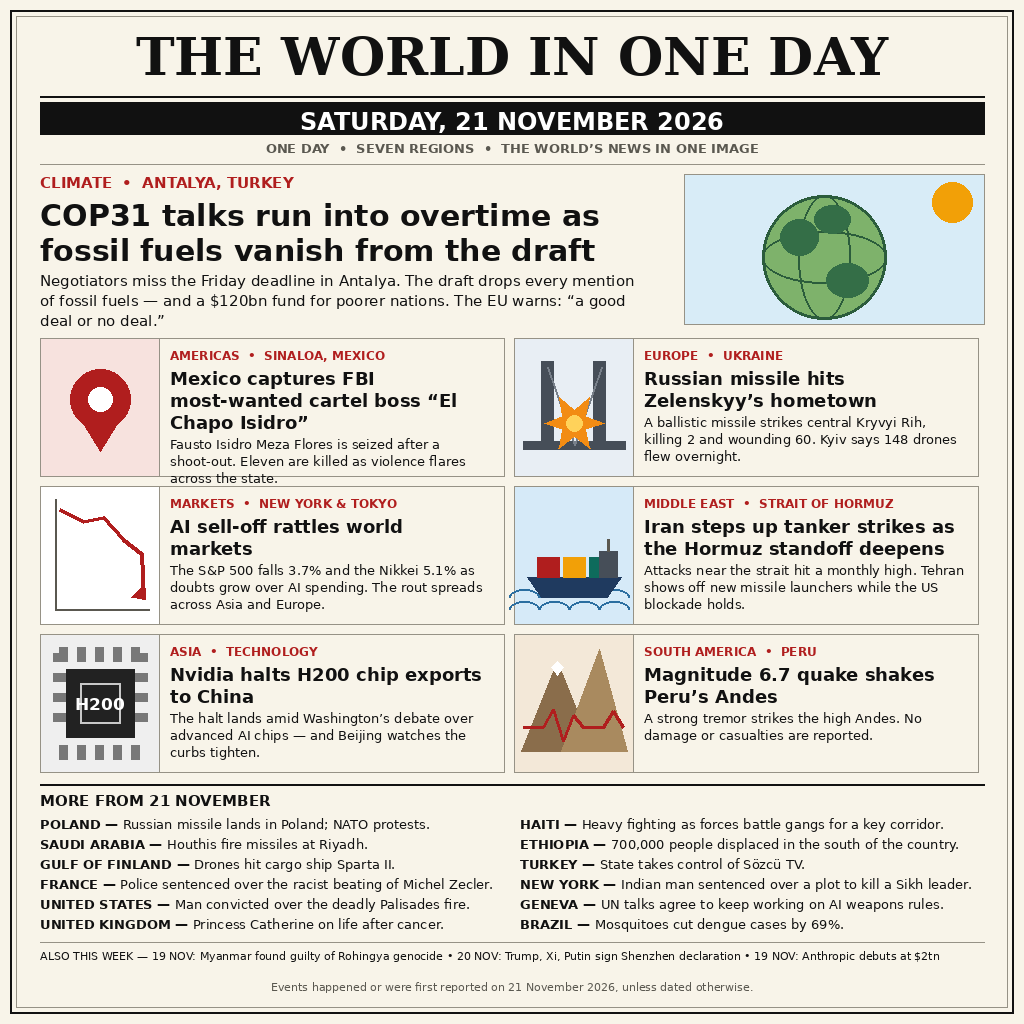
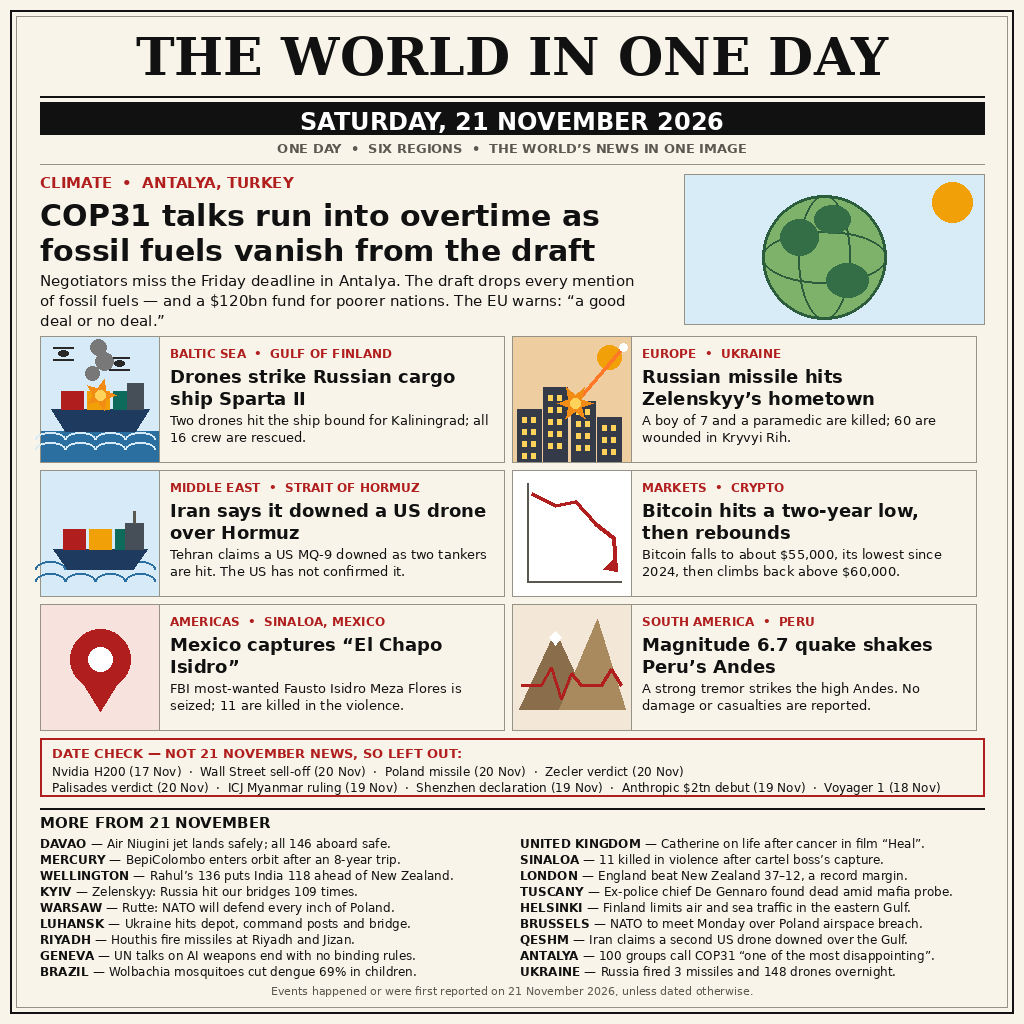
Poster v4: fix all 9 date errors, add DATE CHECK, 25 main items
- Lead Nvidia H200 (17 Nov) replaced by Sparta II (21 Nov)
- Poland missile and Shenzhen declaration moved to DATE CHECK
  with correct dates (20 Nov / 19 Nov); 6 more misdated briefs
  (Haiti, Ethiopia, Sozcu TV, Sikh-plot, Zecler, Palisades)
  removed from 21 Nov section
- New DATE CHECK box: 9 non-21-Nov stories with true dates
- 18 briefs (was 12); Iran attributed; 'US blockade holds' removed;
  markets card replaced with Bitcoin (clean 21 Nov story)
- Masthead sub-line honestly 'SIX REGIONS' (no verified 21 Nov
  Africa story found)

Changed region(s): [[0.0312, 0.3125, 0.9688, 0.9688], [0.25, 0.125, 0.75, 0.1562]]

diff --git a/generate_poster.py b/generate_poster.py
@@ -4,7 +4,12 @@ Run:  python3 generate_poster.py            -> writes entry.png (1024x1024)
 The image is drawn entirely in code: flat vector-style art + real text, so
 every letter stays sharp. No network, no randomness, no timestamps in the
 output: the same script always writes the same bytes.
+
+v4 (2026-11-22, fix session): replaces the v3 poster. See build-report.md.
+NOTE: v4 generator written but NOT YET RUN/TESTED in this session — entry.png
+in this repo is still v3 until the generator is run and main.py is tested 2x.
 """
+import math
 import os
 from PIL import Image, ImageDraw, ImageFont
 
@@ -62,8 +67,7 @@ def centered(draw, cx, y, text, fnt, fill=INK):
 
 
 # ---------------------------------------------------------------------------
-# Flat illustrations (all drawn with PIL primitives, no photos, no text
-# except the short "H200" label on the chip).
+# Flat illustrations (all drawn with PIL primitives, no photos, no text).
 # ---------------------------------------------------------------------------
 
 def art_globe(d, x, y, w, h):
@@ -91,24 +95,65 @@ def art_pin(d, x, y, w, h):
     d.ellipse([cx - 12, cy - 12, cx + 12, cy + 12], fill=LIGHT)
 
 
-def art_bridge(d, x, y, w, h):
-    d.rectangle([x, y, x + w, y + h], fill=(232, 238, 244))
-    # deck and towers
-    d.rectangle([x + 8, y + h - 34, x + w - 8, y + h - 26], fill=(70, 78, 88))
-    for tx in (x + 26, x + w - 40):
-        d.rectangle([tx, y + 22, tx + 12, y + h - 26], fill=(70, 78, 88))
-    d.line([x + 32, y + 28, x + w // 2, y + h - 30], fill=(120, 128, 138), width=2)
-    d.line([x + w - 32, y + 28, x + w // 2, y + h - 30], fill=(120, 128, 138), width=2)
-    # explosion burst on the deck
-    cx, cy = x + w // 2, y + h - 52
+def art_ship(d, x, y, w, h):
+    """Sparta II: cargo ship on fire in the Gulf of Finland, drones above."""
+    d.rectangle([x, y, x + w, y + h], fill=(214, 234, 248))
+    # two drones in the sky
+    for dx, dy in ((x + 22, y + 16), (x + 78, y + 26)):
+        d.ellipse([dx - 5, dy - 3, dx + 5, dy + 3], fill=(40, 40, 40))
+        d.line([dx - 10, dy - 6, dx + 10, dy - 6], fill=(40, 40, 40), width=2)
+        d.line([dx - 10, dy + 6, dx + 10, dy + 6], fill=(40, 40, 40), width=2)
+    # sea
+    d.rectangle([x, y + h - 30, x + w, y + h], fill=(43, 110, 160))
+    for wy in (y + h - 22, y + h - 12):
+        for k in range(4):
+            d.arc([x + k * 30 - 6, wy - 7, x + k * 30 + 24, wy + 7],
+                  180, 360, fill=(214, 234, 248), width=2)
+    # hull
+    d.polygon([(x + 10, y + h - 52), (x + w - 10, y + h - 52),
+               (x + w - 24, y + h - 30), (x + 24, y + h - 30)], fill=(31, 58, 95))
+    # containers
+    for i, col in enumerate([(176, 30, 30), (242, 160, 7), (14, 107, 92)]):
+        d.rectangle([x + 20 + i * 26, y + h - 70, x + 42 + i * 26, y + h - 52],
+                    fill=col)
+    # bridge tower
+    d.rectangle([x + w - 32, y + h - 78, x + w - 16, y + h - 52], fill=(70, 78, 88))
+    # fire on deck + smoke
+    cx, cy = x + w // 2, y + h - 66
     pts = []
-    import math
-    for i in range(12):
-        ang = math.pi * i / 6
-        rr = 30 if i % 2 == 0 else 13
+    for i in range(10):
+        ang = math.pi * i / 5
+        rr = 16 if i % 2 == 0 else 7
         pts.append((cx + rr * math.cos(ang), cy + rr * math.sin(ang)))
     d.polygon(pts, fill=(242, 140, 20))
-    d.ellipse([cx - 8, cy - 8, cx + 8, cy + 8], fill=(255, 210, 90))
+    d.ellipse([cx - 5, cy - 5, cx + 5, cy + 5], fill=(255, 210, 90))
+    for sx, sy, sr in ((cx - 8, cy - 22, 7), (cx + 4, cy - 34, 9), (cx - 2, cy - 48, 8)):
+        d.ellipse([sx - sr, sy - sr, sx + sr, sy + sr], fill=(120, 120, 120))
+
+
+def art_city(d, x, y, w, h):
+    """Kryvyi Rih: dusk skyline, missile trail, impact burst on a rooftop."""
+    d.rectangle([x, y, x + w, y + h], fill=(238, 205, 160))
+    d.ellipse([x + w - 34, y + 8, x + w - 10, y + 32], fill=(242, 160, 7))
+    # missile trail from top right to the impact point
+    ix, iy = x + 62, y + h - 58
+    d.line([x + w - 8, y + 10, ix, iy], fill=(255, 120, 40), width=3)
+    d.ellipse([x + w - 12, y + 6, x + w - 4, y + 14], fill=(255, 255, 255))
+    # skyline with lit windows
+    base = y + h
+    for bx, bh in ((x + 4, 52), (x + 30, 74), (x + 58, 60), (x + 84, 44)):
+        d.rectangle([bx, base - bh, bx + 24, base], fill=(52, 58, 72))
+        for wy in range(base - bh + 8, base - 6, 12):
+            for wx in (bx + 5, bx + 14):
+                d.rectangle([wx, wy, wx + 4, wy + 5], fill=(255, 210, 90))
+    # impact burst
+    pts = []
+    for i in range(12):
+        ang = math.pi * i / 6
+        rr = 18 if i % 2 == 0 else 8
+        pts.append((ix + rr * math.cos(ang), iy + rr * math.sin(ang)))
+    d.polygon(pts, fill=(242, 140, 20))
+    d.ellipse([ix - 5, iy - 5, ix + 5, iy + 5], fill=(255, 210, 90))
 
 
 def art_chart(d, x, y, w, h):
@@ -140,25 +185,6 @@ def art_tanker(d, x, y, w, h):
     d.line([x + w - 25, y + h - 84, x + w - 25, y + h - 72], fill=GREY, width=3)
 
 
-def art_chip(d, x, y, w, h):
-    d.rectangle([x, y, x + w, y + h], fill=(239, 239, 239))
-    cx, cy = x + w // 2, y + h // 2
-    for i in range(5):
-        px = x + 18 + i * 18
-        d.rectangle([px, y + 12, px + 8, y + 26], fill=(120, 120, 120))
-        d.rectangle([px, y + h - 26, px + 8, y + h - 12], fill=(120, 120, 120))
-    for i in range(4):
-        py = y + 18 + i * 20
-        d.rectangle([x + 12, py, x + 26, py + 8], fill=(120, 120, 120))
-        d.rectangle([x + w - 26, py, x + w - 12, py + 8], fill=(120, 120, 120))
-    d.rectangle([cx - 34, cy - 34, cx + 34, cy + 34], fill=(34, 34, 34))
-    d.rectangle([cx - 20, cy - 20, cx + 20, cy + 20], outline=(200, 200, 200), width=2)
-    f = font(SANS_B, 17)
-    t = "H200"
-    tw = d.textlength(t, font=f)
-    d.text((cx - tw / 2, cy - 9), t, font=f, fill=(255, 255, 255))
-
-
 def art_quake(d, x, y, w, h):
     d.rectangle([x, y, x + w, y + h], fill=(243, 232, 216))
     d.polygon([(x + 6, y + h - 20), (x + 42, y + 26), (x + 78, y + h - 20)],
@@ -174,9 +200,17 @@ def art_quake(d, x, y, w, h):
 
 
 # ---------------------------------------------------------------------------
-# Content — every event verified to have happened, or first been reported,
-# on Saturday 21 November 2026 (sources: Reuters, AP, One Turn, KIRO/AP).
-# The two 19-20 Nov items are kept in a separate, honestly dated line.
+# Content — every event in the main sections verified to have happened, or
+# first been reported, on Saturday 21 November 2026 (sources: Reuters, AP,
+# One Turn, ESA/Nature, Interfax-Ukraine, Ukrinform, Wisden, UKMTO, Finwire).
+# Overnight Fri->Sat events (Kryvyi Rih, Mexico capture, Peru quake) count
+# because they were first reported on Saturday 21 Nov.
+# Items from other days are NOT in the main sections: they are listed with
+# their real dates in the DATE CHECK box.
+# Dropped from v3 after verification: Haiti (operation 19 Nov), Ethiopia
+# (statement 19 Nov), Sozcu TV (seizure 17 Nov), Sikh-plot sentence (20 Nov),
+# Zecler verdict (20 Nov), Palisades verdict (20 Nov), Mlambo-Ngcuka death
+# (20 Nov), WHO Ebola update (20 Nov), Trump/Iran-strikes report (18 Nov).
 # ---------------------------------------------------------------------------
 
 LEAD = {
@@ -189,26 +223,26 @@ LEAD = {
 }
 
 STORIES = [
-    {"kicker": "AMERICAS  •  SINALOA, MEXICO", "art": art_pin,
-     "headline": "Mexico captures FBI most-wanted cartel boss \u201cEl Chapo Isidro\u201d",
-     "body": ("Fausto Isidro Meza Flores is seized after a shoot-out. "
-              "Eleven are killed as violence flares across the state.")},
-    {"kicker": "EUROPE  •  UKRAINE", "art": art_bridge,
+    {"kicker": "BALTIC SEA  •  GULF OF FINLAND", "art": art_ship,
+     "headline": "Drones strike Russian cargo ship Sparta II",
+     "body": ("Two drones hit the ship bound for Kaliningrad; "
+              "all 16 crew are rescued.")},
+    {"kicker": "EUROPE  •  UKRAINE", "art": art_city,
      "headline": "Russian missile hits Zelenskyy\u2019s hometown",
-     "body": ("A ballistic missile strikes central Kryvyi Rih, killing 2 and "
-              "wounding 60. Kyiv says 148 drones flew overnight.")},
-    {"kicker": "MARKETS  •  NEW YORK & TOKYO", "art": art_chart,
-     "headline": "AI sell-off rattles world markets",
-     "body": ("The S&P 500 falls 3.7% and the Nikkei 5.1% as doubts grow "
-              "over AI spending. The rout spreads across Asia and Europe.")},
+     "body": ("A boy of 7 and a paramedic are killed; "
+              "60 are wounded in Kryvyi Rih.")},
     {"kicker": "MIDDLE EAST  •  STRAIT OF HORMUZ", "art": art_tanker,
-     "headline": "Iran steps up tanker strikes as the Hormuz standoff deepens",
-     "body": ("Attacks near the strait hit a monthly high. Tehran shows off "
-              "new missile launchers while the US blockade holds.")},
-    {"kicker": "ASIA  •  TECHNOLOGY", "art": art_chip,
-     "headline": "Nvidia halts H200 chip exports to China",
-     "body": ("The halt lands amid Washington\u2019s debate over advanced AI "
-              "chips — and Beijing watches the curbs tighten.")},
+     "headline": "Iran says it downed a US drone over Hormuz",
+     "body": ("Tehran claims a US MQ-9 downed as two tankers are hit. "
+              "The US has not confirmed it.")},
+    {"kicker": "MARKETS  •  CRYPTO", "art": art_chart,
+     "headline": "Bitcoin hits a two-year low, then rebounds",
+     "body": ("Bitcoin falls to about $55,000, its lowest since 2024, "
+              "then climbs back above $60,000.")},
+    {"kicker": "AMERICAS  •  SINALOA, MEXICO", "art": art_pin,
+     "headline": "Mexico captures \u201cEl Chapo Isidro\u201d",
+     "body": ("FBI most-wanted Fausto Isidro Meza Flores is seized; "
+              "11 are killed in the violence.")},
     {"kicker": "SOUTH AMERICA  •  PERU", "art": art_quake,
      "headline": "Magnitude 6.7 quake shakes Peru\u2019s Andes",
      "body": ("A strong tremor strikes the high Andes. No damage or "
@@ -216,25 +250,36 @@ STORIES = [
 ]
 
 BRIEFS_LEFT = [
-    ("POLAND", "Russian missile lands in Poland; NATO protests."),
-    ("SAUDI ARABIA", "Houthis fire missiles at Riyadh."),
-    ("GULF OF FINLAND", "Drones hit cargo ship Sparta II."),
-    ("FRANCE", "Police sentenced over the racist beating of Michel Zecler."),
-    ("UNITED STATES", "Man convicted over the deadly Palisades fire."),
-    ("UNITED KINGDOM", "Princess Catherine on life after cancer."),
+    ("DAVAO", "Air Niugini jet lands safely; all 146 aboard safe."),
+    ("MERCURY", "BepiColombo enters orbit after an 8-year trip."),
+    ("WELLINGTON", "Rahul\u2019s 136 puts India 118 ahead of New Zealand."),
+    ("KYIV", "Zelenskyy: Russia hit our bridges 109 times."),
+    ("WARSAW", "Rutte: NATO will defend every inch of Poland."),
+    ("LUHANSK", "Ukraine hits depot, command posts and bridge."),
+    ("RIYADH", "Houthis fire missiles at Riyadh and Jizan."),
+    ("GENEVA", "UN talks on AI weapons end with no binding rules."),
+    ("BRAZIL", "Wolbachia mosquitoes cut dengue 69% in children."),
 ]
 BRIEFS_RIGHT = [
-    ("HAITI", "Heavy fighting as forces battle gangs for a key corridor."),
-    ("ETHIOPIA", "700,000 people displaced in the south of the country."),
-    ("TURKEY", "State takes control of S\u00f6zc\u00fc TV."),
-    ("NEW YORK", "Indian man sentenced over a plot to kill a Sikh leader."),
-    ("GENEVA", "UN talks agree to keep working on AI weapons rules."),
-    ("BRAZIL", "Mosquitoes cut dengue cases by 69%."),
+    ("UNITED KINGDOM", "Catherine on life after cancer in film \u201cHeal\u201d."),
+    ("SINALOA", "11 killed in violence after cartel boss\u2019s capture."),
+    ("LONDON", "England beat New Zealand 37\u201312, a record margin."),
+    ("TUSCANY", "Ex-police chief De Gennaro found dead amid mafia probe."),
+    ("HELSINKI", "Finland limits air and sea traffic in the eastern Gulf."),
+    ("BRUSSELS", "NATO to meet Monday over Poland airspace breach."),
+    ("QESHM", "Iran claims a second US drone downed over the Gulf."),
+    ("ANTALYA", "100 groups call COP31 \u201cone of the most disappointing\u201d."),
+    ("UKRAINE", "Russia fired 3 missiles and 148 drones overnight."),
 ]
 
-WEEK_LINE = ("ALSO THIS WEEK  —  19 NOV: Myanmar found guilty of Rohingya genocide "
-             "•  20 NOV: Trump, Xi, Putin sign Shenzhen declaration "
-             "•  19 NOV: Anthropic debuts at $2tn")
+DATE_CHECK_TITLE = "DATE CHECK \u2014 NOT 21 NOVEMBER NEWS, SO LEFT OUT:"
+DATE_CHECK_LINES = [
+    "Nvidia H200 (17 Nov)  \u00b7  Wall Street sell-off (20 Nov)  \u00b7  "
+    "Poland missile (20 Nov)  \u00b7  Zecler verdict (20 Nov)",
+    "Palisades verdict (20 Nov)  \u00b7  ICJ Myanmar ruling (19 Nov)  \u00b7  "
+    "Shenzhen declaration (19 Nov)  \u00b7  Anthropic $2tn debut (19 Nov)  \u00b7  "
+    "Voyager 1 (18 Nov)",
+]
 
 
 def draw_card(d, x, y, w, h, story):
@@ -257,18 +302,18 @@ def draw_card(d, x, y, w, h, story):
                f_body, leading=17)
 
 
-def draw_briefs(d, x, y, w, items, f_bold, f_reg):
+def draw_briefs(d, x, y, w, items, f_bold, f_reg, leading=14, gap=2):
     yy = y
     for place, text in items:
-        lead = place + " — "
+        lead = place + " \u2014 "
         lw = d.textlength(lead, font=f_bold)
         d.text((x, yy), lead, font=f_bold, fill=INK)
         rest = wrap(d, text, f_reg, w - lw)
         xx = x + lw
         for i, line in enumerate(rest):
             d.text((xx if i == 0 else x, yy), line, font=f_reg, fill=INK)
-            yy += 16
-        yy += 4
+            yy += leading
+        yy += gap
     return yy
 
 
@@ -290,7 +335,7 @@ def build():
     tw = d.textlength("SATURDAY, 21 NOVEMBER 2026", font=f_date)
     d.text(((W - tw) / 2, 107), "SATURDAY, 21 NOVEMBER 2026", font=f_date, fill=LIGHT)
     f_sub = font(SANS_B, 13)
-    centered(d, W // 2, 140, "ONE DAY  •  SEVEN REGIONS  •  THE WORLD\u2019S NEWS IN ONE IMAGE",
+    centered(d, W // 2, 140, "ONE DAY  \u2022  SIX REGIONS  \u2022  THE WORLD\u2019S NEWS IN ONE IMAGE",
              f_sub, fill=GREY)
 
     # lead story
@@ -311,8 +356,8 @@ def build():
     d.rectangle([W - 40 - 300, y0 + 10, W - 40, y0 + 160], outline=RULE, width=1)
 
     # story grid 2 x 3
-    gy = 338
-    gw, gh, gap = 464, 138, 10
+    gy = 336
+    gw, gh, gap = 464, 126, 8
     gx0 = 40
     for i, story in enumerate(STORIES):
         cx = gx0 + (i % 2) * (gw + gap)
@@ -320,27 +365,30 @@ def build():
         draw_card(d, cx, cy, gw, gh, story)
     grid_bottom = gy + 3 * gh + 2 * gap
 
-    # briefs
-    by = grid_bottom + 12
-    d.line([40, by, W - 40, by], fill=INK, width=2)
-    f_sec = font(SANS_B, 15)
-    d.text((40, by + 8), "MORE FROM 21 NOVEMBER", font=f_sec, fill=INK)
-    f_bold = font(SANS_B, 13)
-    f_reg = font(SANS, 13)
-    col_w = 464
-    end_l = draw_briefs(d, 40, by + 32, col_w, BRIEFS_LEFT, f_bold, f_reg)
-    end_r = draw_briefs(d, 40 + col_w + 16, by + 32, col_w, BRIEFS_RIGHT, f_bold, f_reg)
-    briefs_bottom = max(end_l, end_r)
+    # DATE CHECK box
+    by = grid_bottom + 8
+    d.rectangle([40, by, W - 40, by + 58], outline=RED, width=2)
+    f_dc_title = font(SANS_B, 13)
+    f_dc = font(SANS, 12)
+    d.text((52, by + 7), DATE_CHECK_TITLE, font=f_dc_title, fill=RED)
+    d.text((52, by + 26), DATE_CHECK_LINES[0], font=f_dc, fill=INK)
+    d.text((52, by + 42), DATE_CHECK_LINES[1], font=f_dc, fill=INK)
 
-    # honestly dated week line
-    wy = briefs_bottom + 6
-    d.line([40, wy, W - 40, wy], fill=RULE, width=1)
-    f_week = font(SANS, 11)
-    text_block(d, 40, wy + 7, wrap(d, WEEK_LINE, f_week, W - 80), f_week, leading=15)
+    # briefs
+    hy = by + 58 + 12
+    d.line([40, hy, W - 40, hy], fill=INK, width=2)
+    f_sec = font(SANS_B, 15)
+    d.text((40, hy + 6), "MORE FROM 21 NOVEMBER", font=f_sec, fill=INK)
+    f_bold = font(SANS_B, 12)
+    f_reg = font(SANS, 12)
+    col_w = 464
+    end_l = draw_briefs(d, 40, hy + 28, col_w, BRIEFS_LEFT, f_bold, f_reg)
+    end_r = draw_briefs(d, 40 + col_w + 16, hy + 28, col_w, BRIEFS_RIGHT, f_bold, f_reg)
+    briefs_bottom = max(end_l, end_r)
 
     # footer
     f_foot = font(SANS, 11)
-    centered(d, W // 2, H - 44,
+    centered(d, W // 2, H - 40,
              "Events happened or were first reported on 21 November 2026, unless dated otherwise.",
              f_foot, fill=GREY)
     return img

diff --git a/README.md b/README.md
@@ -8,17 +8,20 @@ make.fun's "Sum up 21 November's world news in one image" bounty.
 A one-page newspaper front page, drawn entirely in code
 (`generate_poster.py`, Python + Pillow): a masthead dated
 **SATURDAY, 21 NOVEMBER 2026**, a lead story on the COP31 climate talks
-running into overtime in Antalya, six more main stories (Mexico's capture of
-cartel boss "El Chapo Isidro", the Russian missile strike on Kryvyi Rih, the
-AI stock sell-off, the Hormuz tanker standoff, Nvidia's H200 export halt, the
-M6.7 Peru quake), twelve briefs from across seven regions, and a short
-"Also this week" line.
+running into overtime in Antalya, six more main stories (the Sparta II drone
+attack in the Gulf of Finland, the Russian missile strike on Kryvyi Rih, the
+Hormuz standoff, Bitcoin's two-year low and rebound, Mexico's capture of
+cartel boss "El Chapo Isidro", the M6.7 Peru quake), eighteen briefs from
+across six regions, and a DATE CHECK box listing the big non-21-November
+stories that were deliberately left out.
 
 Every event in the main sections happened, or was first reported, on
-21 November 2026. The two earlier items in the "Also this week" line — the
-ICJ's Myanmar genocide ruling (19 Nov) and the Shenzhen peace declaration
-(20 Nov) — carry their real dates, so nothing is presented as the day's news
-that was not.
+21 November 2026. Stories from other days are not in the main sections: the
+DATE CHECK box lists nine of them with their real dates — Nvidia H200
+(17 Nov), Wall Street sell-off (20 Nov), Poland missile (20 Nov), Zecler
+verdict (20 Nov), Palisades verdict (20 Nov), ICJ Myanmar ruling (19 Nov),
+Shenzhen declaration (19 Nov), Anthropic's $2tn debut (19 Nov), Voyager 1
+(18 Nov) — so nothing is presented as the day's news that was not.
 
 ## How it is built
 
